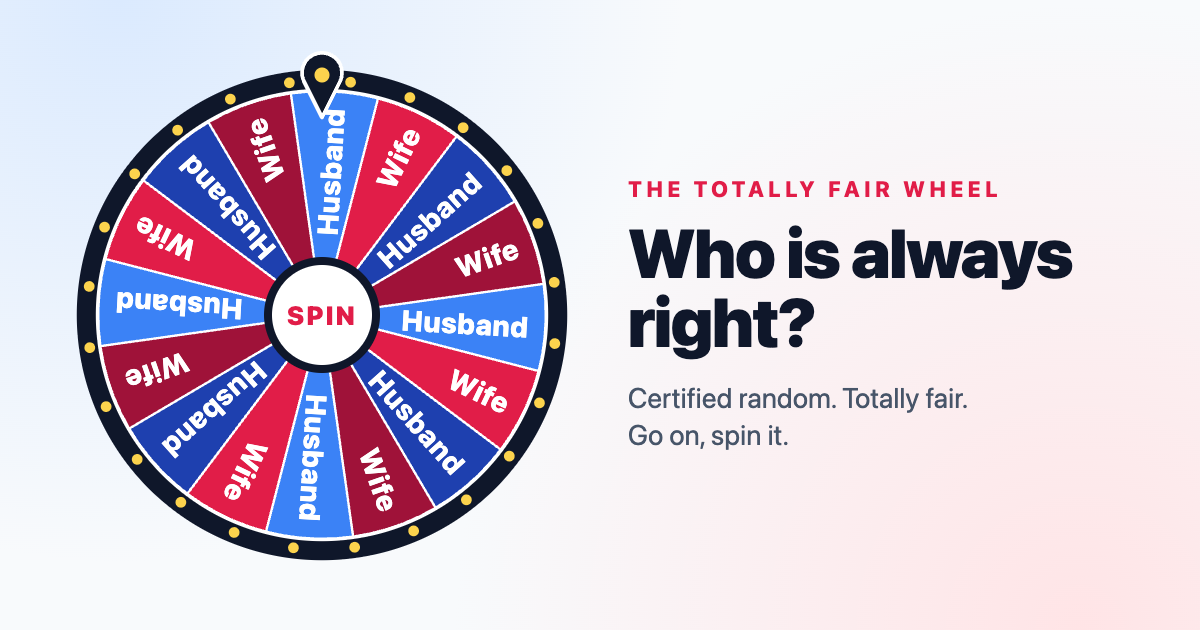
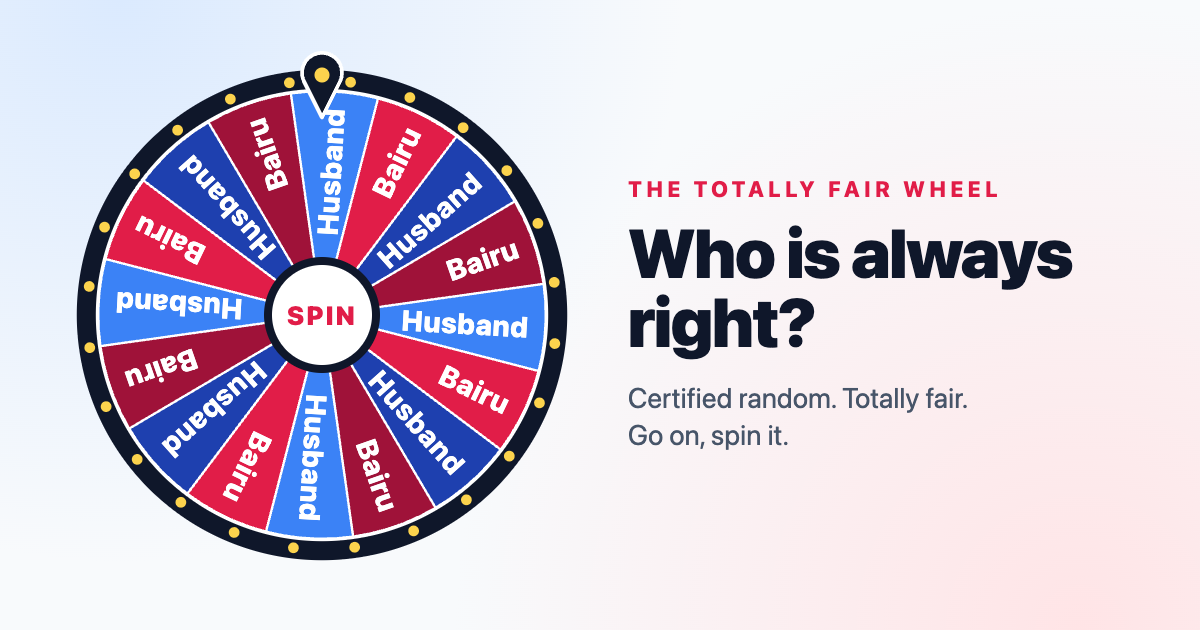
Default credit name: Wife -> Bairu
Changes the default in the app, and updates the README, banner, link
preview image, demo GIFs and screenshots to match. Share links that set
w= still use their own name.

diff --git a/src/RiggedWheel.jsx b/src/RiggedWheel.jsx
@@ -40,7 +40,7 @@ const PRIVILEGE_WEIGHT = 2; // "who should pick…" is a perk
 
 const DEFAULTS = {
   question: 'Who is always right?',
-  good: 'Wife', // gets the credit
+  good: 'Bairu', // gets the credit
   bad: 'Husband', // gets the blame
   goodCount: 8, // an even 50/50 wheel looks fair; it still always lands on the right person
   badCount: 8,

diff --git a/README.md b/README.md
@@ -1,14 +1,14 @@
 <div align="center">
 
 <a href="https://rehmanalimomin.github.io/rigged-wheel/">
-  <img src="docs/hero.svg" alt="A fair-looking wheel, 8 Wife and 8 Husband slices, spins and lands on Wife." width="100%" />
+  <img src="docs/hero.svg" alt="A fair-looking wheel, 8 Bairu and 8 Husband slices, spins and lands on Bairu." width="100%" />
 </a>
 
 # The Totally Fair Wheel
 
 **Settle any argument with certified randomness.\***
 
-<sub>\*Praise always goes to Wife. Blame always goes to Husband. An AI reads the question to decide which.</sub>
+<sub>\*Praise always goes to Bairu. Blame always goes to Husband. An AI reads the question to decide which.</sub>
 
 <br />
 
@@ -26,9 +26,9 @@
 
 ## 🎯 Type any question, and the wheel knows who it's about
 
-Ask something nice and the wheel lands on **Wife**. Ask something embarrassing and it lands on **Husband**. The wheel is an honest-looking 50/50 split, and it never changes when you change the question. Only the landing is rigged.
+Ask something nice and the wheel lands on **Bairu**. Ask something embarrassing and it lands on **Husband**. The wheel is an honest-looking 50/50 split, and it never changes when you change the question. Only the landing is rigged.
 
-| 💐 Praise, so it's Wife | 🙃 Blame, so it's Husband |
+| 💐 Praise, so it's Bairu | 🙃 Blame, so it's Husband |
 | :-- | :-- |
 | [Who is always right?](https://rehmanalimomin.github.io/rigged-wheel/?q=Who+is+always+right%3F) | [Who makes more mistakes?](https://rehmanalimomin.github.io/rigged-wheel/?q=Who+makes+more+mistakes%3F) |
 | [Whose advice should we follow?](https://rehmanalimomin.github.io/rigged-wheel/?q=Whose+advice+should+we+follow%3F) | [Who snores louder?](https://rehmanalimomin.github.io/rigged-wheel/?q=Who+snores+louder%3F) |
@@ -41,8 +41,8 @@ Or [write your own](https://rehmanalimomin.github.io/rigged-wheel/). The app sho
 <table>
   <tr>
     <td align="center" width="50%">
-      <img src="docs/demo-praise.gif" alt="Who is always right? A fair-looking 8 Wife / 8 Husband wheel spins and lands on Wife. Confetti and a fanfare." width="100%" />
-      <br /><sub><b>Praise:</b> 8 × Wife, 8 × Husband. Lands on Wife. Fanfare and confetti.</sub>
+      <img src="docs/demo-praise.gif" alt="Who is always right? A fair-looking 8 Bairu / 8 Husband wheel spins and lands on Bairu. Confetti and a fanfare." width="100%" />
+      <br /><sub><b>Praise:</b> 8 × Bairu, 8 × Husband. Lands on Bairu. Fanfare and confetti.</sub>
     </td>
     <td align="center" width="50%">
       <img src="docs/demo-blame.gif" alt="Who makes more mistakes? The same 50/50 wheel spins and lands on Husband. Facepalm emoji rain." width="100%" />
@@ -61,7 +61,7 @@ Or [write your own](https://rehmanalimomin.github.io/rigged-wheel/). The app sho
 ## ✨ Features
 
 - 🧠 **Laya reads the question.** [Laya](https://huggingface.co/convaiinnovations/laya) is a small AI model that sorts text into categories. It decides whether being the answer is praise or blame, and the wheel shows its call and how sure it is: *"Laya: sounds like blame · 85% sure → Husband"*.
-- 🚫 **No appeals.** There's no way to overrule the wheel or pick the answer yourself. Praise always goes to Wife, and blame always goes to Husband.
+- 🚫 **No appeals.** There's no way to overrule the wheel or pick the answer yourself. Praise always goes to Bairu, and blame always goes to Husband.
 - 💡 **24 question ideas**, half praise and half blame, shown four at a time, plus 🎲 **Surprise me**.
 - ⏳ **Spin waits for Laya.** If you hit Spin while Laya is still reading a new question, the button says *Asking Laya…* and the wheel spins once Laya answers (it waits 2.5 s at most). That way the landing always matches the verdict shown above the wheel.
 - 🎡 **Rigged, but it looks fair.** It picks where to stop first, then spins 5–7 full turns to get there, slowing down over 4–5 seconds.
@@ -78,7 +78,7 @@ Or [write your own](https://rehmanalimomin.github.io/rigged-wheel/). The app sho
 flowchart LR
     Q([Your question]) --> L{Laya:<br/>praise or blame?}
     W[Word list<br/>right, advice… / mistakes, snores…] -. nudges when Laya is unsure .-> L
-    L -->|praise| G[Aim for a<br/>Wife slice]
+    L -->|praise| G[Aim for a<br/>Bairu slice]
     L -->|blame| B[Aim for a<br/>Husband slice]
     G --> S[Rigged spin on the same<br/>50/50 wheel]
     B --> S
@@ -123,7 +123,7 @@ const offset = direction > 0 ? mod(-angle - from, 360) : mod(from + angle, 360);
 const to     = from + direction * (turns * 360 + offset);   // turns = 5..7
 ```
 
-Each frame moves along `from → to` using `1 − (1 − t)⁴`. That curve starts fast and has a long, slow crawl at the end, so the last few ticks feel close. A test script tried 15,600 random spins, covering every Wife/Husband mix up to 40 slices and both verdicts: **0 misses.**
+Each frame moves along `from → to` using `1 − (1 − t)⁴`. That curve starts fast and has a long, slow crawl at the end, so the last few ticks feel close. A test script tried 15,600 random spins, covering every Bairu/Husband mix up to 40 slices and both verdicts: **0 misses.**
 
 </details>
 
@@ -132,7 +132,7 @@ Each frame moves along `from → to` using `1 − (1 − t)⁴`. That curve star
 | Param | What it sets | Default |
 | :-- | :-- | :-- |
 | `q` | The question | `Who is always right?` |
-| `w` / `l` | Who gets the credit / who gets the blame | `Wife` / `Husband` |
+| `w` / `l` | Who gets the credit / who gets the blame | `Bairu` / `Husband` |
 | `nw` / `nl` | Number of slices for the credit / blame person (up to 40 in total) | `8` / `8` |
 
 ## 🖥 Hosting Laya
